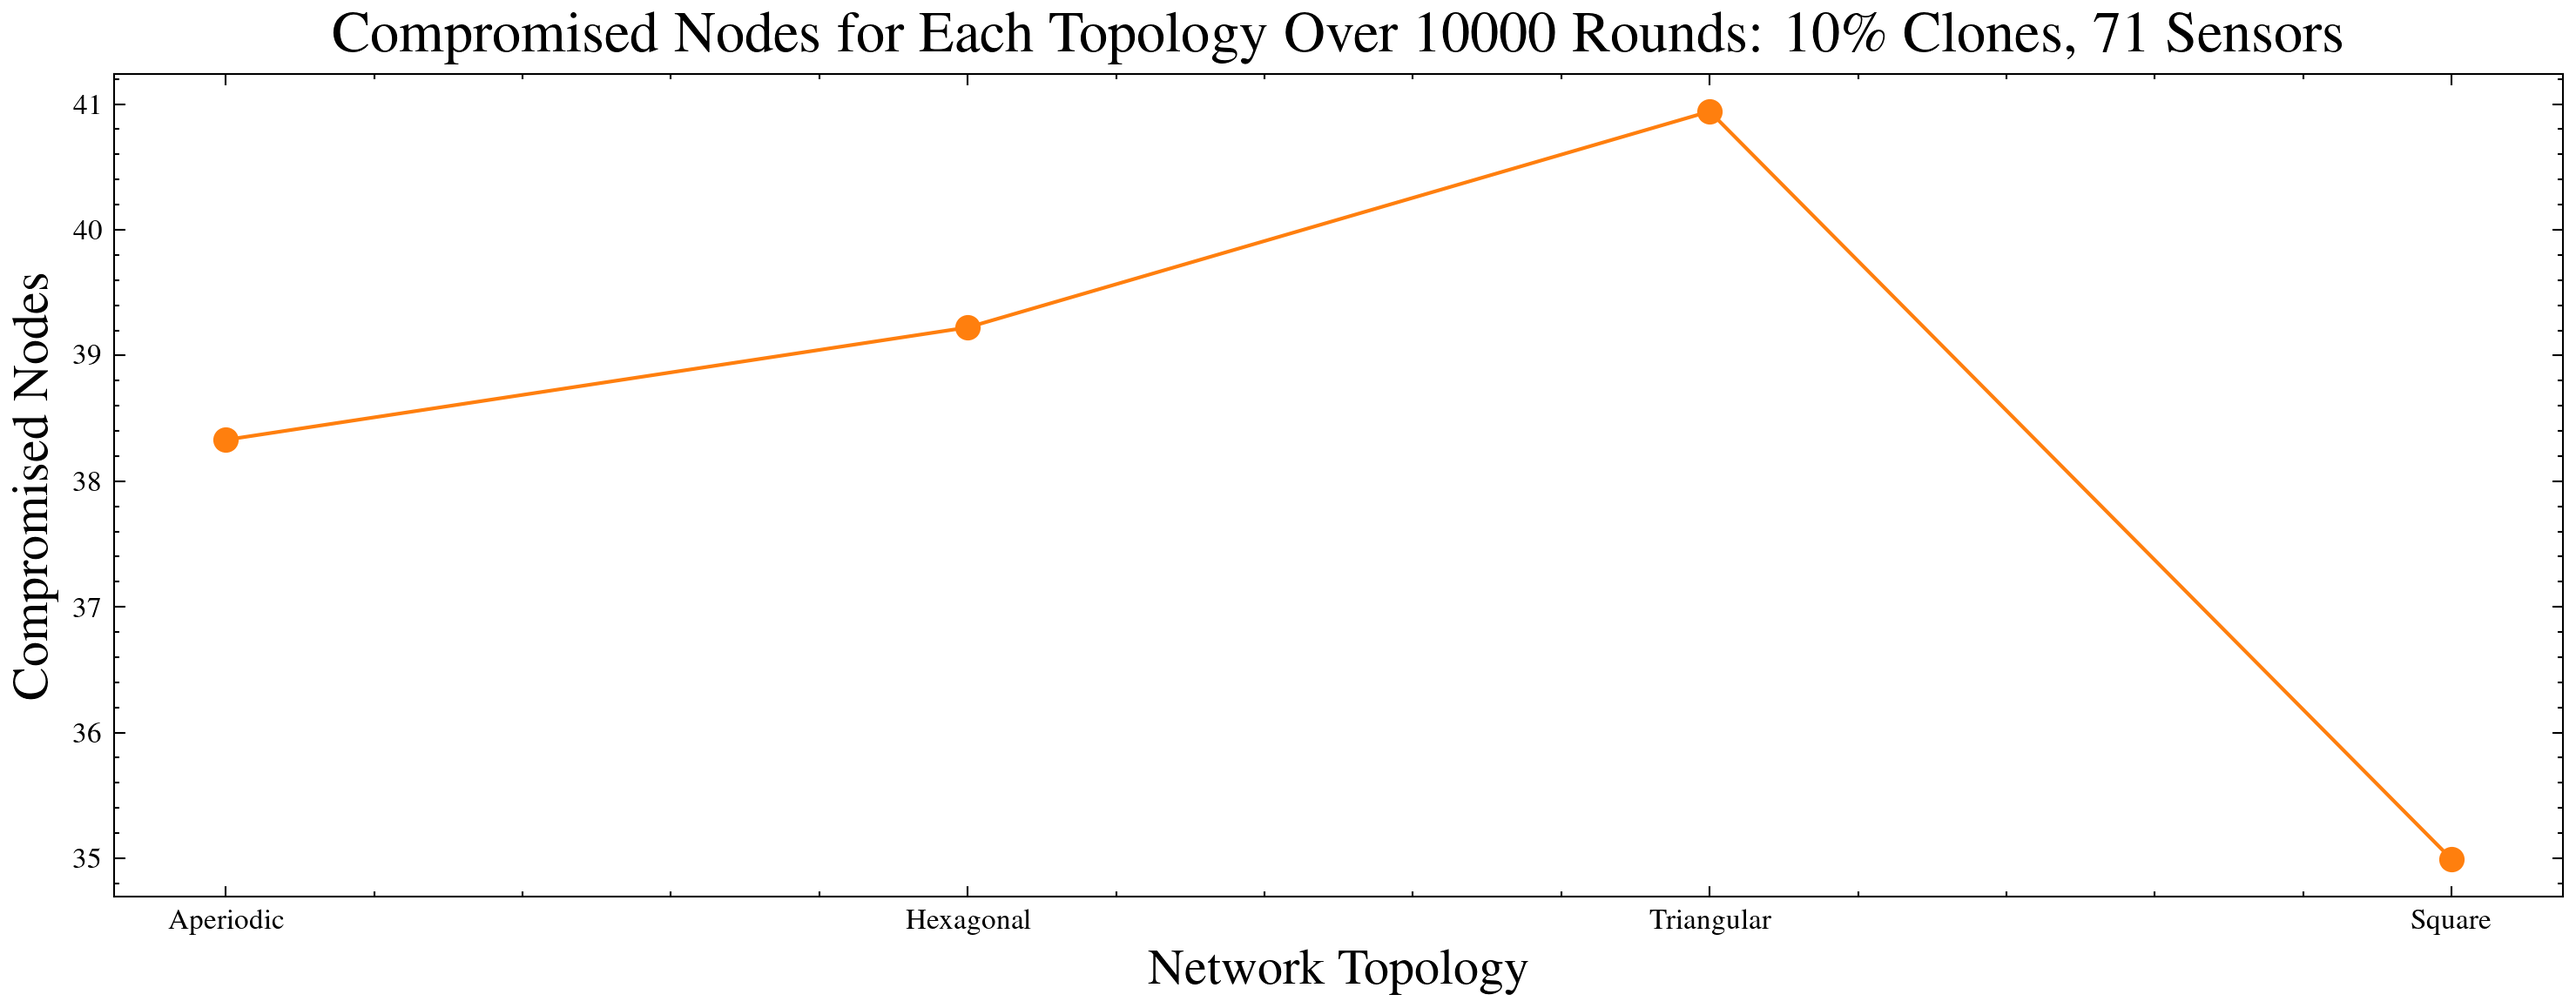
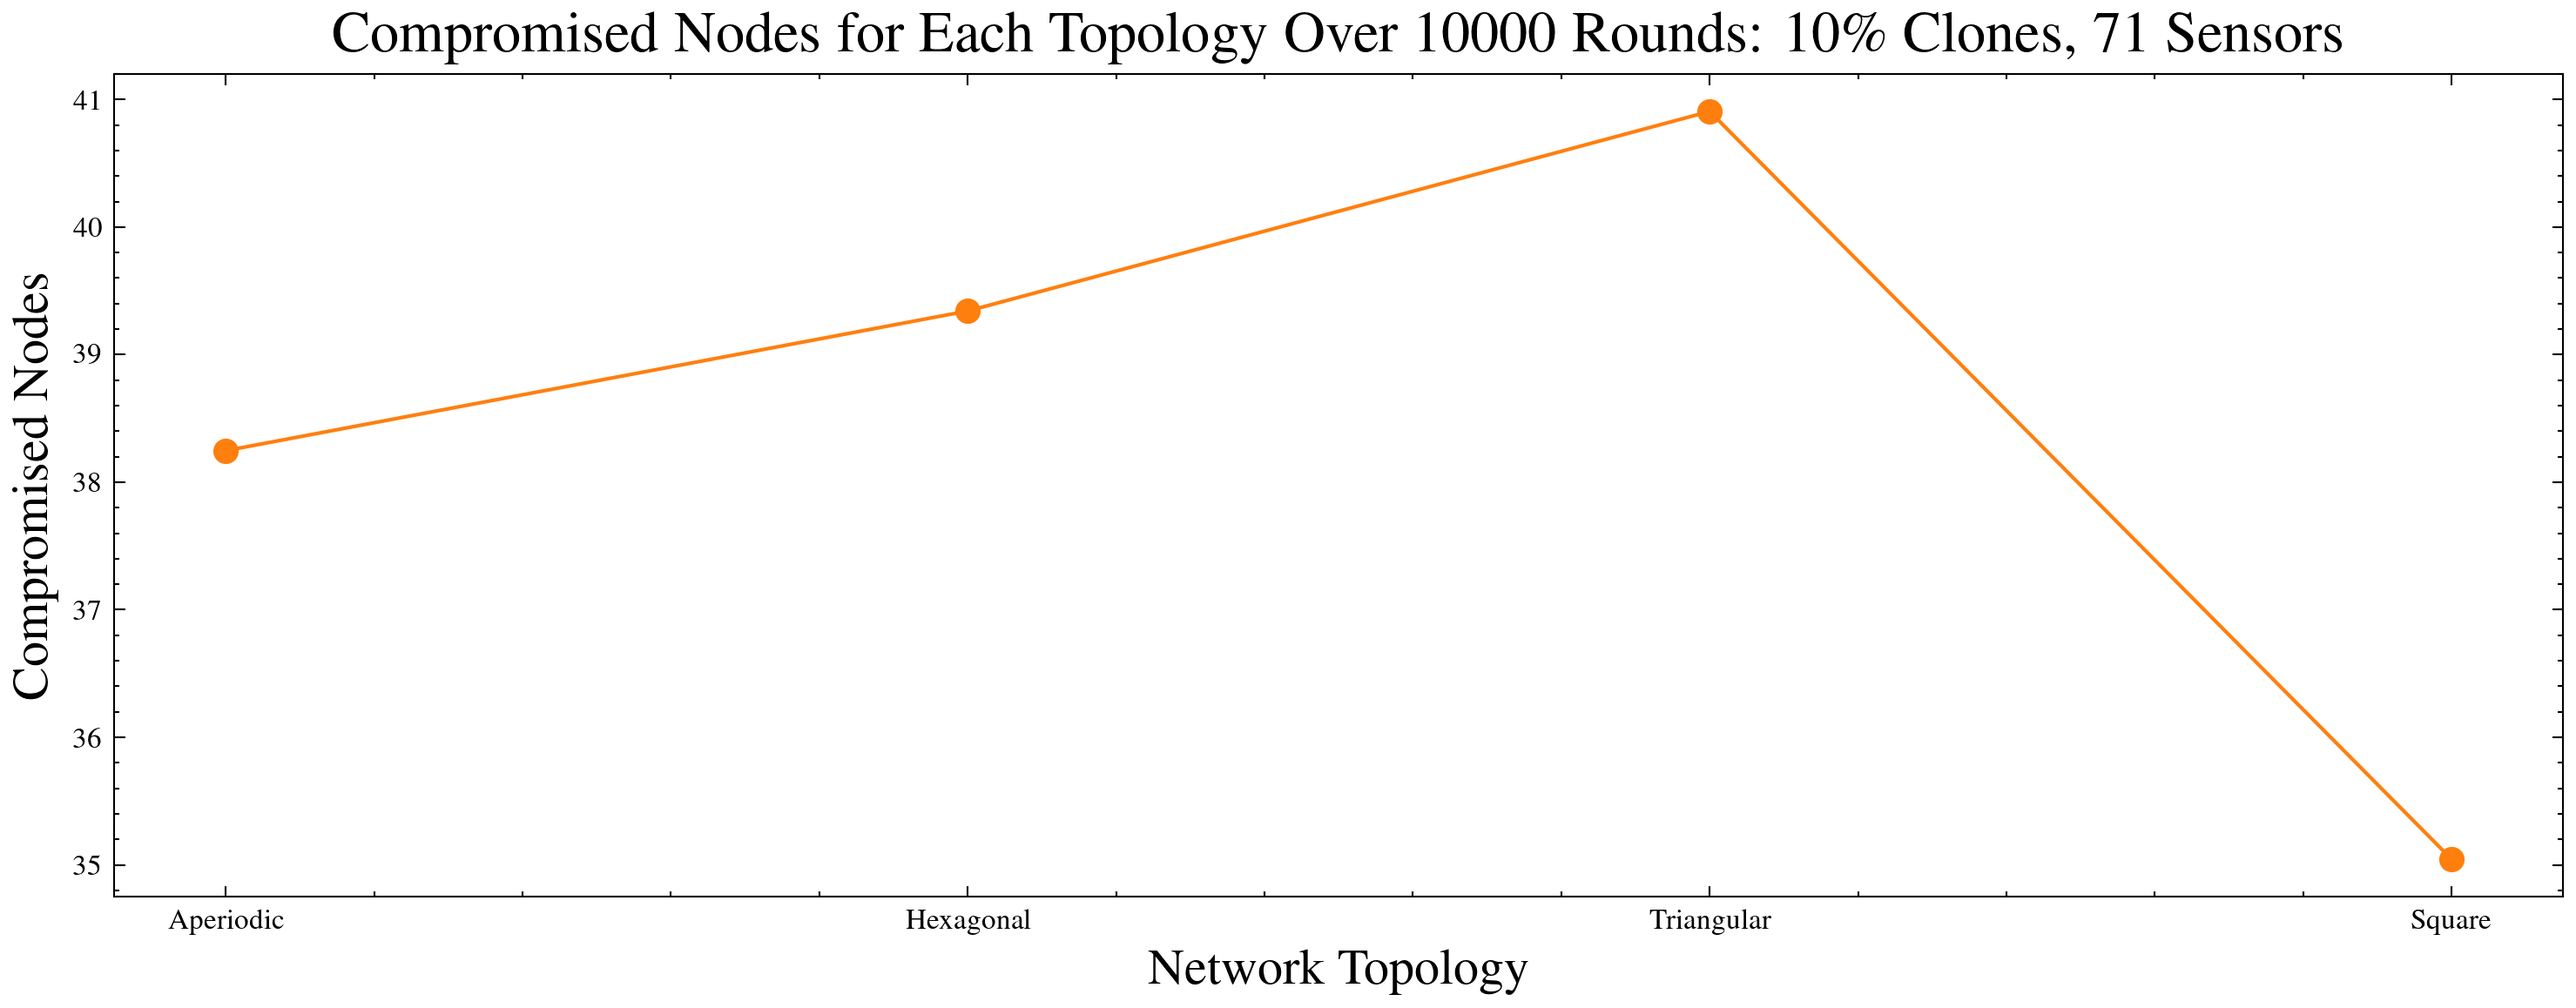
FinalFigures

diff --git a/SECURITY/mainfilesecurity.py b/SECURITY/mainfilesecurity.py
@@ -6,12 +6,12 @@ import pandas as pd
 from network_generation import generate_aperiodic_network, generate_hexagonal_network, generate_triangular_network, generate_square_network
 
 plt.style.use(['science', 'ieee', 'high-vis'])
-plt.rcParams.update({'figure.dpi': '300'})
+plt.rcParams.update({'figure.dpi': '600'})
 
 # Parameters
 SENSOR_RADIUS = 10
 COMMUNICATION_RANGE = SENSOR_RADIUS * 2
-CLONE_PERCENTAGE = 0.01
+CLONE_PERCENTAGE = 0.1
 DETECTION_THRESHOLD = 0.1  # Probability threshold for detecting a cloned node
 
 def generate_networks(sensor_radius, num_sensors):
@@ -158,7 +158,7 @@ def plot_network_with_paths(network, paths, clone_positions, detected_clones, ba
 
     plt.show()
 
-def run_simulation(num_sensors=559, num_iterations=1, num_rounds=1000, save_fig=False):
+def run_simulation(num_sensors=71, num_iterations=1, num_rounds=10000, save_fig=False):
     sensor_radius = SENSOR_RADIUS
     networks = generate_networks(sensor_radius, num_sensors)
     results = {network_type: {'detections': 0, 'paths': [], 'total_intrusion_effort': 0, 'total_hops': 0, 'base_station_reached': 0, 'detected_clones': set(), 'compromised_nodes': 0} for network_type in networks.keys()}
@@ -187,22 +187,22 @@ def run_simulation(num_sensors=559, num_iterations=1, num_rounds=1000, save_fig=
         print(f"{network_type} Network: {results[network_type]['detections']} detections, {results[network_type]['base_station_reached']} base stations reached out of {num_iterations * num_rounds} total rounds")
         print(f"Average total intrusion effort: {results[network_type]['total_intrusion_effort'] / (num_iterations * num_rounds)}")
         print(f"Average total hops: {results[network_type]['total_hops'] / (num_iterations * num_rounds)}")
-        print(f"Total detected cloned nodes: {len(results[network_type]['detected_clones'])}")
-        print(f"Total compromised nodes: {results[network_type]['compromised_nodes'] / (num_iterations * num_rounds)}")
+        print(f"Average total detected cloned nodes: {len(results[network_type]['detected_clones'])} / {num_iterations * num_rounds}")
+        print(f"Average total compromised nodes: {results[network_type]['compromised_nodes'] / (num_iterations * num_rounds)}")
         print(f"Base station reached percentage: {(results[network_type]['base_station_reached'] / (num_iterations * num_rounds)) * 100}%")
     
     plot_metrics(results, num_rounds, num_sensors, save_fig)
 
 def plot_metrics(results, num_rounds, num_sensors, save_fig=False):
-    metrics = ['Total Intrusion Effort', 'Total Hops', 'Base Station Reached Percentage', 'Compromised Nodes', 'Total Detections']
+    metrics = ['Average Intrusion Effort', 'Average Hops', 'Base Station Reached Percentage', 'Average Compromised Nodes', 'Average Detections']
     data = []
 
     for network_type, network_results in results.items():
-        data.append({'Network Type': network_type, 'Metric': 'Total Intrusion Effort', 'Value': network_results['total_intrusion_effort'] / num_rounds})
-        data.append({'Network Type': network_type, 'Metric': 'Total Hops', 'Value': network_results['total_hops'] / num_rounds})
+        data.append({'Network Type': network_type, 'Metric': 'Average Intrusion Effort', 'Value': network_results['total_intrusion_effort'] / num_rounds})
+        data.append({'Network Type': network_type, 'Metric': 'Average Hops', 'Value': network_results['total_hops'] / num_rounds})
         data.append({'Network Type': network_type, 'Metric': 'Base Station Reached Percentage', 'Value': (network_results['base_station_reached'] / num_rounds) * 100})
-        data.append({'Network Type': network_type, 'Metric': 'Compromised Nodes', 'Value': network_results['compromised_nodes'] / num_rounds})
-        data.append({'Network Type': network_type, 'Metric': 'Total Detections', 'Value': network_results['detections']})
+        data.append({'Network Type': network_type, 'Metric': 'Average Compromised Nodes', 'Value': network_results['compromised_nodes'] / num_rounds})
+        data.append({'Network Type': network_type, 'Metric': 'Average Detections', 'Value': network_results['detections'] / num_rounds})
     
     df = pd.DataFrame(data)
 
@@ -221,4 +221,4 @@ def plot_metrics(results, num_rounds, num_sensors, save_fig=False):
         plt.show()
 
 if __name__ == "__main__":
-    run_simulation(num_iterations=1, num_rounds=1000, save_fig=True)
+    run_simulation(num_iterations=1, num_rounds=10000, save_fig=True)
